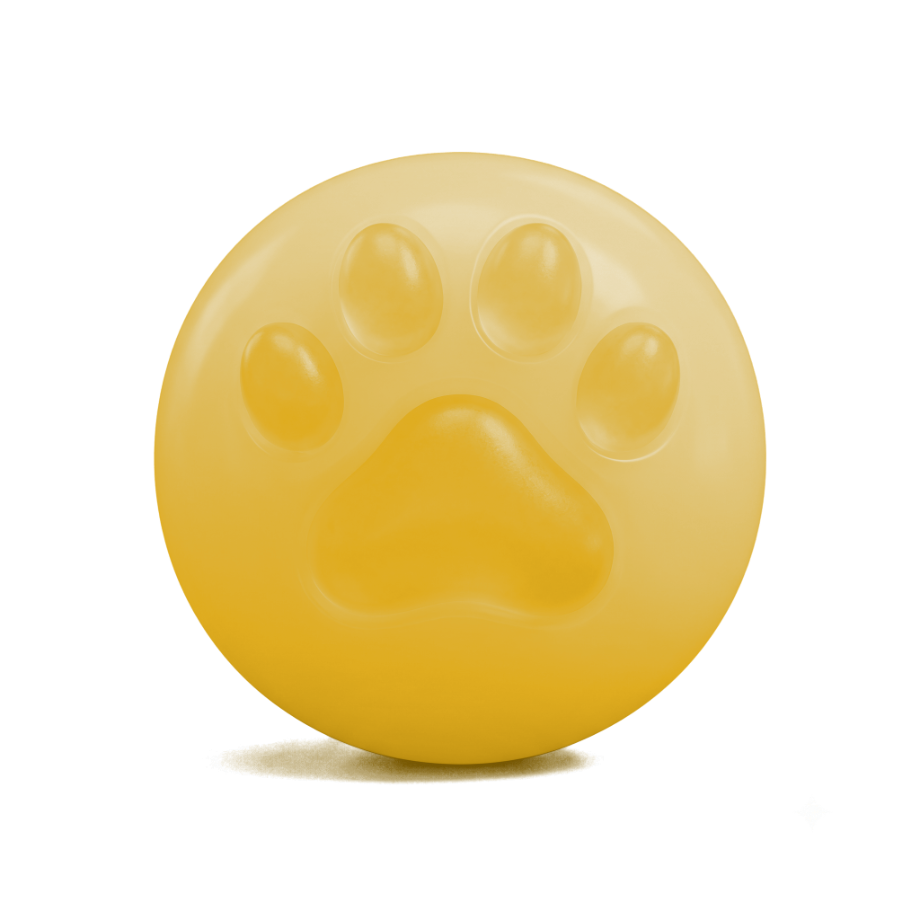
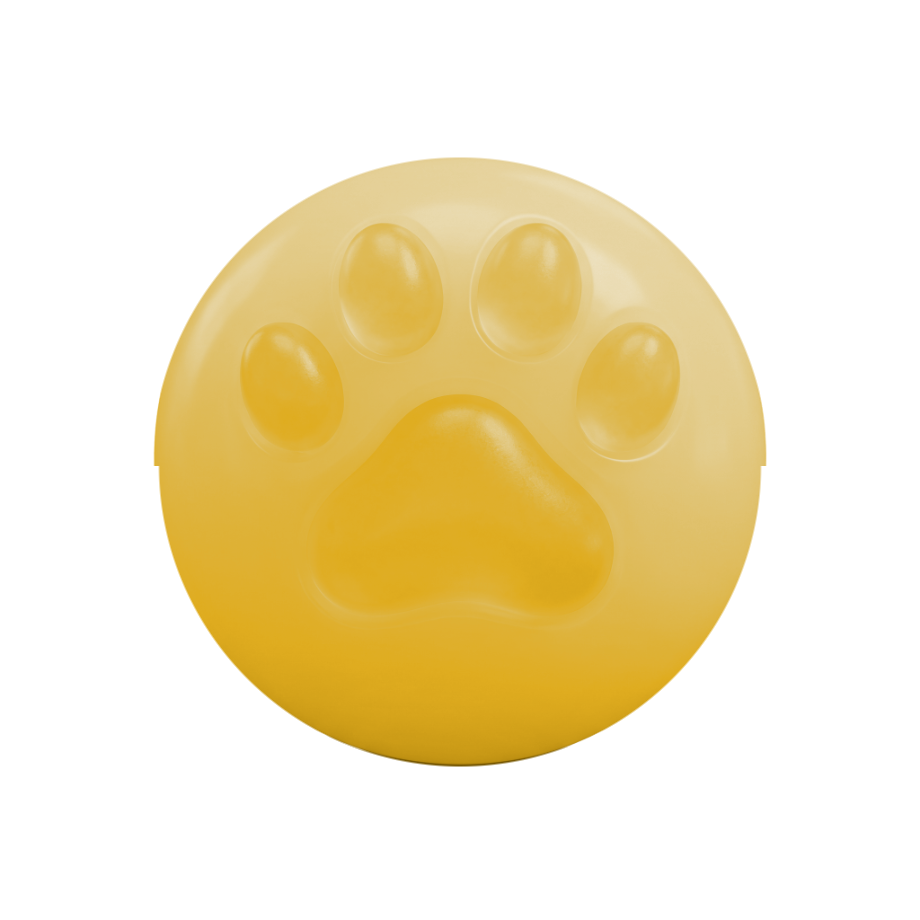
키캡 초록 자국 · 염주 반시계 · 도반 찾기에서 공덕 띠 떼기
형: 「지금의 키캡 녹색 저 이상한 거 고쳐」
    「세로형 염주 차는 거 시계 반대 방향으로 고쳐」
    「고양이 염주 뒤에 있는 거 넘 검게 하지 말고」
    「도반 찾기에 저 위 공덕 메뉴 뜬다 이거 고쳐」

① 키캡의 초록 — 범인은 keycap3.mjs 끝의 「아래로 번지게 하는 고리」였다.
   부처상 장의 아랫단을 일흔 줄 넘게 끌어내려서 귀 밑동이 세로 줄무늬
   올리브가 되고 바닥이 잿빛 빗살이 됐다. 번지게 할 까닭도 없다 —
   누르면 부처상이 아래로 가니 구멍은 꽃받침 뒤로 더 숨을 뿐이다.
   덤으로 부처상 장을 꽃받침 앞턱보다 훨씬 위에서 끊었다. 눌렸을 때
   흐려진 꼬리가 밑으로 삐져나와 잿빛 테로 돌던 것도 같이 죽는다.

② 세로형 염주 — conic-gradient 는 언제나 시계로 돈다. 뒤집는 길은
   끝에서부터 칠하는 것 하나뿐이라, 검은 조각을 1turn 쪽에 붙였다.
   바깥 획도 sweep 을 뒤집은 길(ARC_TOP_CCW)로 바꿔 둘이 같이 돈다.

③ 염주알 — 그림에 거의 검은 접지 그늘이 구워져 있었다. 알이 스물일곱
   개 도니 그 검정이 스물일곱 번 깔렸다. 틀(920)은 건드리지 않고
   그늘만 걷는다 — 아래쪽은 동그라미를 일곱 화소 좁혀 알 밑에 물려
   있던 초승달까지 떨군다. 안 찬 자리 고리도 먹빛에서 옅은 금으로.

④ HipRoom 에 lanes·rail 을 준다. 인연은 공양 방이 아니라 갈 데도 아닌
   열 칸을 머리에 이고 있었고, 아래 알도 功 이 켜져 있었다.

diff --git a/src/app/moktak/page.tsx b/src/app/moktak/page.tsx
@@ -77,6 +77,13 @@ const ARC_TOP =
 const ARC_BOTTOM =
   "M158 304 A146 146 0 0 0 304 158 A146 146 0 0 0 158 12 " +
   "A146 146 0 0 0 12 158 A146 146 0 0 0 158 304";
+// 형: 「세로형 염주 차는 거 시계 반대 방향으로 고쳐」
+// 위 가운데에서 **왼쪽으로** 돈다. 오른손으로 염주를 굴리면 알은 몸 쪽으로
+// 넘어오니, 앞에서 보면 반시계다 — 굴리는 손과 차오르는 쪽이 같아진다.
+// 시작점(158 12)만 같고 sweep 을 0 으로 뒤집어 지나는 차례도 뒤집는다.
+const ARC_TOP_CCW =
+  "M158 12 A146 146 0 0 0 12 158 A146 146 0 0 0 158 304 " +
+  "A146 146 0 0 0 304 158 A146 146 0 0 0 158 12";
 
 // 염불 여섯 자 — 목탁을 칠 때마다 한 자씩
 /**
@@ -560,14 +567,16 @@ export default function MoktakPage() {
   // 물든 만큼만 금빛 겹을 보여 준다 — 위 가운데의 표시점에서 반시계로.
   // 바깥 고리와 같은 출발점·방향이어야, 금빛이 갑자기 아래쪽에 덧칠된 듯 보이지 않는다.
   const f = pos / BEADS;
-  // 세로형의 금 — 위 가운데(12시)에서 시계 방향으로 찬다.
-  // from 을 -f*360 으로 주고 있었다. 그러면 채워진 조각이 **통째로 뒤로
-  // 돌아** 시작점이 매번 옮겨 다닌다 — 형이 「어디로 가냐」 한 게 이것이다.
-  // from 을 빼면 conic-gradient 는 본래 12시에서 시작해 시계로 돈다.
+  // 세로형의 금 — 위 가운데(12시)에서 **반시계**로 찬다.
+  // 형: 「세로형 염주 차는 거 시계 반대 방향으로 고쳐」
+  //
+  // conic-gradient 는 언제나 시계로 돈다. 뒤집는 길은 하나뿐이다 —
+  // **끝에서부터** 칠한다. 검은 조각을 1turn 쪽에 붙여 두면 그 조각이
+  // 자라는 방향이 12시에서 왼쪽, 곧 반시계가 된다.
   const goldMask =
     f <= 0
       ? "linear-gradient(#0000, #0000)"
-      : `conic-gradient(at 50% 50%, #000 0turn ${f}turn, #0000 ${f + 0.008}turn 1turn)`;
+      : `conic-gradient(at 50% 50%, #0000 0turn ${Math.max(0, 1 - f - 0.008)}turn, #000 ${1 - f}turn 1turn)`;
   const phrases = Math.floor(hits / geun.ch.length); // 몇 편 왔나
   const shareText =
     tab === "moktak"
@@ -606,7 +615,11 @@ export default function MoktakPage() {
       >
         {/* 바깥 진행 고리 — 백팔이 차오른다 */}
         <svg aria-hidden viewBox="0 0 316 316" className="absolute inset-0 h-full w-full">
-          <path d={beadWide ? ARC_BOTTOM : ARC_TOP} fill="none" stroke="rgba(26,23,20,0.12)" strokeWidth="2" />
+          {/* 아직 안 찬 자리 — 형: 「고양이 염주 뒤에 있는 거 넘 검게 하지 말고」
+              먹빛(26,23,20)을 깔아 두었더니 흰 판에서 잿빛 철사로 보였다.
+              금이 지나갈 길이니 **금의 옅은 쪽**으로 깐다. 물들기 전과 후가
+              같은 한 벌이 된다. */}
+          <path d={beadWide ? ARC_BOTTOM : ARC_TOP_CCW} fill="none" stroke="rgba(226,186,116,0.30)" strokeWidth="2" />
           {/* 차오르는 획은 금이다 — 형: 「저거 동그라미 차는 거 핑크 말고
               황금색으로 가자」. 알이 갈색·금빛인데 둘레만 분홍이라 물건과
               따로 놀았다. 금으로 두르면 염주 한 벌이 된다. */}
@@ -621,7 +634,7 @@ export default function MoktakPage() {
             </linearGradient>
           </defs>
           <path
-            d={beadWide ? ARC_BOTTOM : ARC_TOP}
+            d={beadWide ? ARC_BOTTOM : ARC_TOP_CCW}
             fill="none"
             stroke="url(#hip-arc-gold)"
             strokeWidth="3.4"

diff --git a/src/components/HipRoom.tsx b/src/components/HipRoom.tsx
@@ -28,15 +28,22 @@ export default function HipRoom({
   here,
   /** 판이 길면 통으로 만들어 흐르게 한다. 짧은 방은 꺼 둔다 */
   scroll = true,
+  /** 공양 갈래 띠(목탁·염주·…)를 그릴까.
+      형: 「도반 찾기에 저 위 공덕 메뉴 뜬다, 이거 고쳐」 — 인연은 공양
+      방이 아니다. 갈 데도 아닌 열 칸을 머리에 이고 있었다. */
+  lanes = true,
+  /** 아래 염주 넷 중 어느 알이 켜지나. 공양 방은 功, 인연은 緣 */
+  rail = "/moktak",
   children,
 }: {
   here: string;
   scroll?: boolean;
+  lanes?: boolean;
+  rail?: string;
   children: ReactNode;
 }) {
   return (
-    // 아래 염주는 늘 功 에 머문다 — 이 여섯은 다 공양 판 안이다
-    <HipShell here="/moktak">
+    <HipShell here={rail}>
       <div className={`hip-screen${scroll ? " hip-screen-scroll" : ""} hip-room`}>
         {/* 숨 쉬는 바탕 — 덩이 둘이 서로 다른 박자로 아주 느리게 흐른다 */}
         <span aria-hidden className="hip-bloom hip-bloom-a" />
@@ -54,7 +61,7 @@ export default function HipRoom({
           <HipTop />
         </header>
 
-        <HipLanes room={here} />
+        {lanes && <HipLanes room={here} />}
 
         <div className="hip-screen-mid hip-room-body">{children}</div>
       </div>

diff --git a/src/app/gathering/me/page.tsx b/src/app/gathering/me/page.tsx
@@ -82,7 +82,7 @@ export default function 인연내프로필() {
 
   if (있나 === false) {
     return (
-      <HipRoom here="/gathering/me">
+      <HipRoom here="/gathering/me" lanes={false} rail="/gathering">
         <div className="hip-yeon">
           <p className="hip-yeon-head">因緣 · 도반 찾기</p>
           <p className="hip-yeon-say">들어온 뒤에 열립니다</p>
@@ -95,7 +95,7 @@ export default function 인연내프로필() {
   const 올해 = new Date().getFullYear();
 
   return (
-    <HipRoom here="/gathering/me">
+    <HipRoom here="/gathering/me" lanes={false} rail="/gathering">
       <div className="hip-yeon">
         <p className="hip-yeon-head">因緣 · 도반 찾기</p>
 
